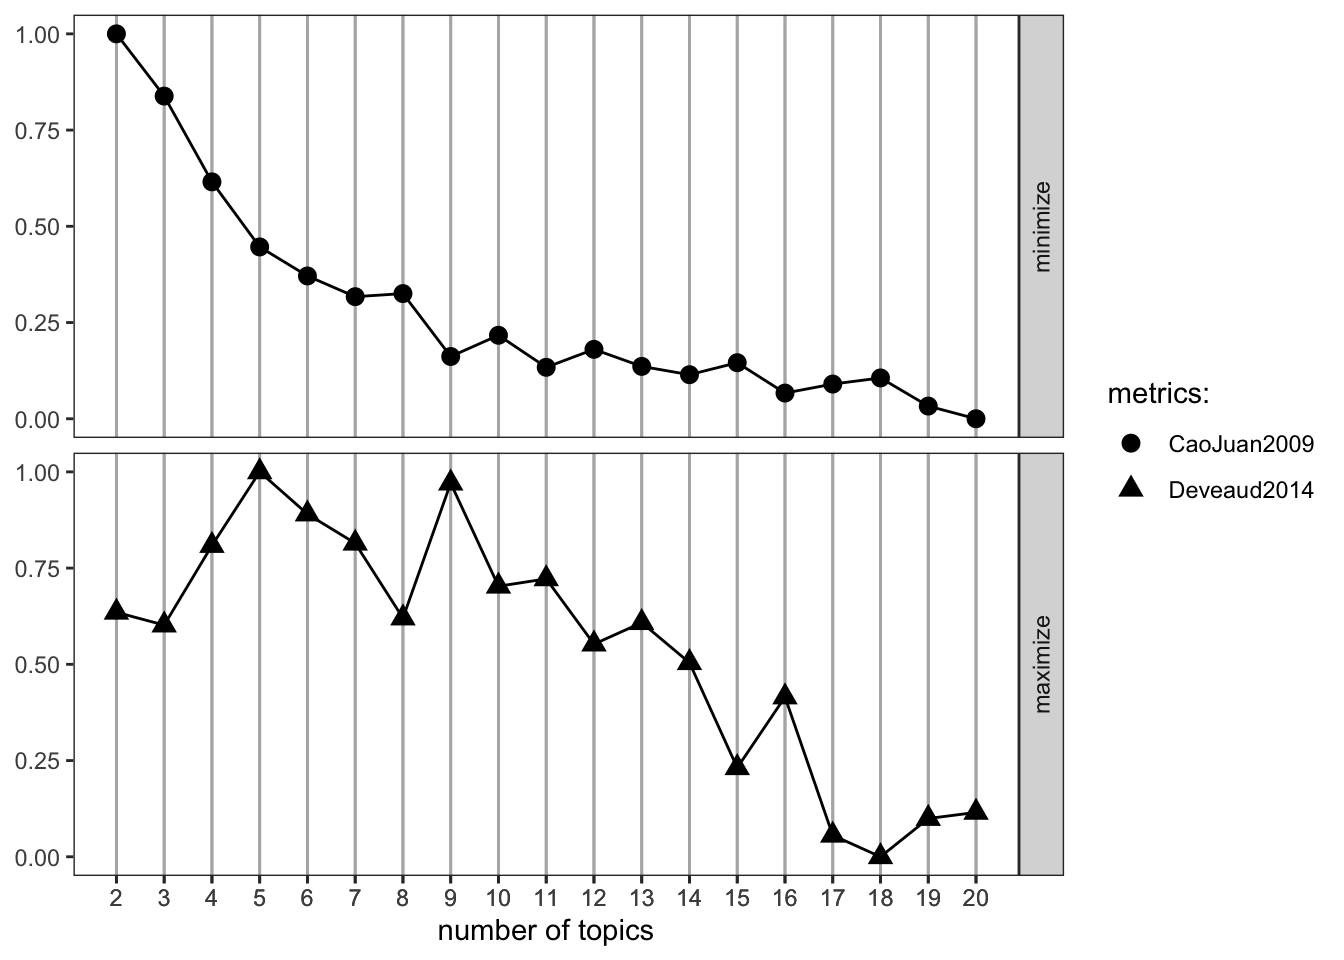
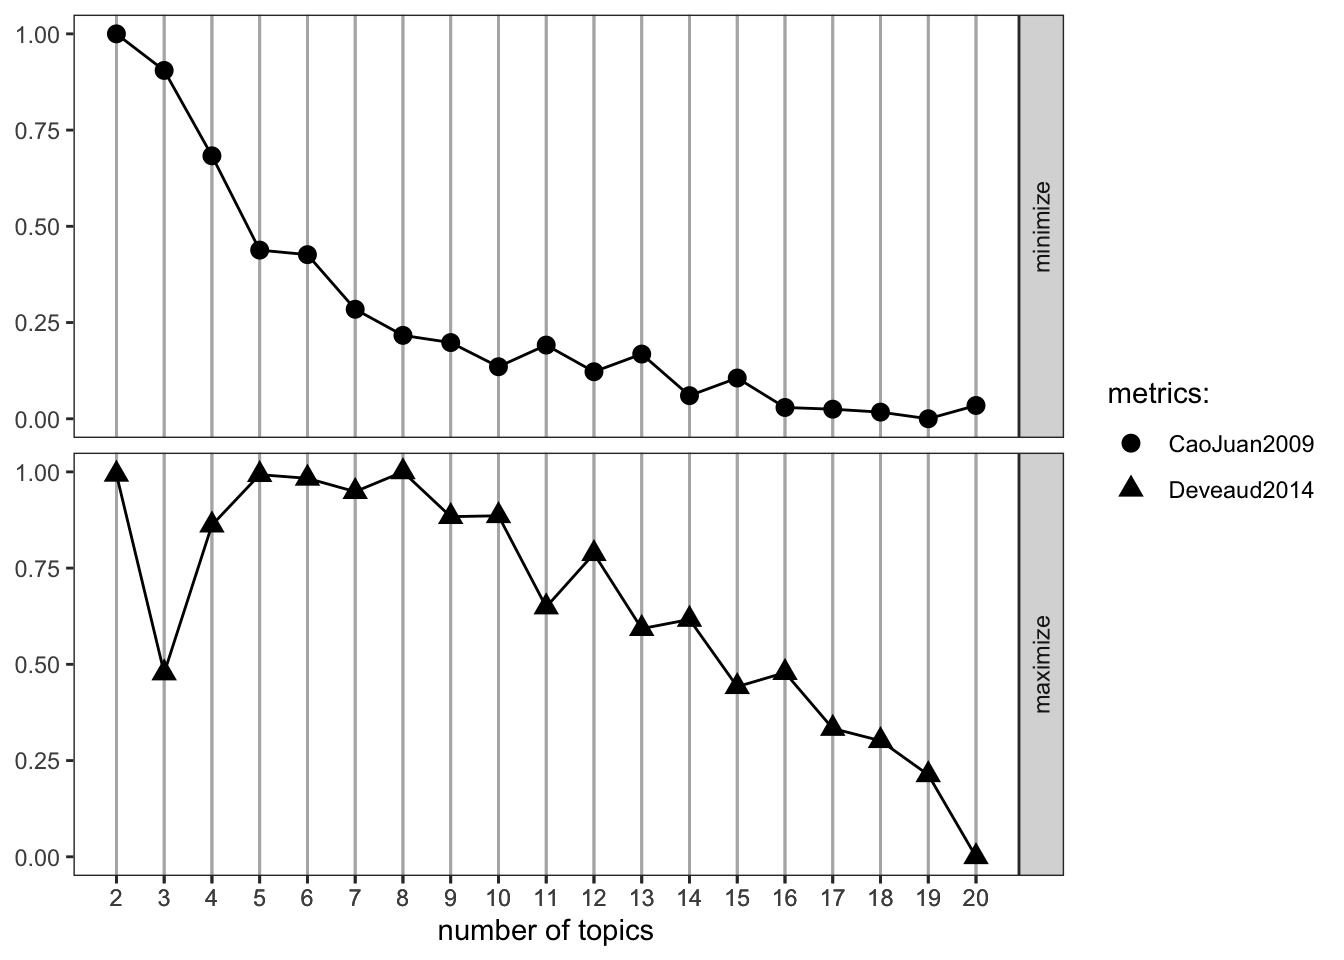
published topics blog

diff --git a/docs/blog/2024-2-28-data-viz-proj/index.html b/docs/blog/2024-2-28-data-viz-proj/index.html
@@ -615,8 +615,8 @@ pre > code.sourceCode > span > a:first-child::before { text-decoration: underlin
 <span id="cb6-25"><a href="#cb6-25" aria-hidden="true" tabindex="-1"></a>                              <span class="st">"#F9CE84"</span>, <span class="st">"#8F0B19"</span>))</span></code><button title="Copy to Clipboard" class="code-copy-button"><i class="bi"></i></button></pre></div>
 </details>
 <div class="cell-output-display">
-<div class="plotly html-widget html-fill-item-overflow-hidden html-fill-item" id="htmlwidget-9fb1de4d65947fb5f8e3" style="width:100%;height:464px;"></div>
-<script type="application/json" data-for="htmlwidget-9fb1de4d65947fb5f8e3">{"x":{"visdat":{"5756636b22d3":["function () ","plotlyVisDat"]},"cur_data":"5756636b22d3","attrs":{"5756636b22d3":{"ids":{},"labels":{},"parents":{},"values":{},"branchvalues":"total","textinfo":"label+values","hoverinfo":"label+percent parent+percent root","insidetextorientation":"radial","alpha_stroke":1,"sizes":[10,100],"spans":[1,20],"type":"sunburst"}},"layout":{"margin":{"b":10,"l":60,"t":40,"r":10},"title":"Fantasy Scoring Distribution by Team","sunburstcolorway":["#89AEAA","#020818","#F8DDA2","#9F9F9F","#102450","#99C783","#D93633","#33ABC5","#A1C7E3","#008A79","#F9CE84","#8F0B19"],"hovermode":"closest","showlegend":false},"source":"A","config":{"modeBarButtonsToAdd":["hoverclosest","hovercompare"],"showSendToCloud":false},"data":[{"ids":["Total","Total - Bikini Bottom","Total - Malibu","Total - Winterfell","Total - Cream City","Total - San Diego","Total - Helsinki","Total - Beaverton","Total - Anacortes","Total - Santa Barbara","Total - Scottsdale","Total - Slytherin","Total - Las Vegas"],"labels":["Total","Bikini Bottom","Malibu","Winterfell","Cream City","San Diego","Helsinki","Beaverton","Anacortes","Santa Barbara","Scottsdale","Slytherin","Las Vegas"],"parents":[null,"Total","Total","Total","Total","Total","Total","Total","Total","Total","Total","Total","Total"],"values":[371099,42127,41197,33687,36805,31113,29325,29659,27838,27313,24338,24719,22978],"branchvalues":"total","textinfo":"label+values","hoverinfo":["label+percent parent+percent root","label+percent parent+percent root","label+percent parent+percent root","label+percent parent+percent root","label+percent parent+percent root","label+percent parent+percent root","label+percent parent+percent root","label+percent parent+percent root","label+percent parent+percent root","label+percent parent+percent root","label+percent parent+percent root","label+percent parent+percent root","label+percent parent+percent root"],"insidetextorientation":"radial","type":"sunburst","marker":{"color":"rgba(31,119,180,1)","line":{"color":"rgba(255,255,255,1)"}},"frame":null}],"highlight":{"on":"plotly_click","persistent":false,"dynamic":false,"selectize":false,"opacityDim":0.20000000000000001,"selected":{"opacity":1},"debounce":0},"shinyEvents":["plotly_hover","plotly_click","plotly_selected","plotly_relayout","plotly_brushed","plotly_brushing","plotly_clickannotation","plotly_doubleclick","plotly_deselect","plotly_afterplot","plotly_sunburstclick"],"base_url":"https://plot.ly"},"evals":[],"jsHooks":[]}</script>
+<div class="plotly html-widget html-fill-item-overflow-hidden html-fill-item" id="htmlwidget-c8af7e78899a6164ce79" style="width:100%;height:464px;"></div>
+<script type="application/json" data-for="htmlwidget-c8af7e78899a6164ce79">{"x":{"visdat":{"5b8377bda124":["function () ","plotlyVisDat"]},"cur_data":"5b8377bda124","attrs":{"5b8377bda124":{"ids":{},"labels":{},"parents":{},"values":{},"branchvalues":"total","textinfo":"label+values","hoverinfo":"label+percent parent+percent root","insidetextorientation":"radial","alpha_stroke":1,"sizes":[10,100],"spans":[1,20],"type":"sunburst"}},"layout":{"margin":{"b":10,"l":60,"t":40,"r":10},"title":"Fantasy Scoring Distribution by Team","sunburstcolorway":["#89AEAA","#020818","#F8DDA2","#9F9F9F","#102450","#99C783","#D93633","#33ABC5","#A1C7E3","#008A79","#F9CE84","#8F0B19"],"hovermode":"closest","showlegend":false},"source":"A","config":{"modeBarButtonsToAdd":["hoverclosest","hovercompare"],"showSendToCloud":false},"data":[{"ids":["Total","Total - Bikini Bottom","Total - Malibu","Total - Winterfell","Total - Cream City","Total - San Diego","Total - Helsinki","Total - Beaverton","Total - Anacortes","Total - Santa Barbara","Total - Scottsdale","Total - Slytherin","Total - Las Vegas"],"labels":["Total","Bikini Bottom","Malibu","Winterfell","Cream City","San Diego","Helsinki","Beaverton","Anacortes","Santa Barbara","Scottsdale","Slytherin","Las Vegas"],"parents":[null,"Total","Total","Total","Total","Total","Total","Total","Total","Total","Total","Total","Total"],"values":[371099,42127,41197,33687,36805,31113,29325,29659,27838,27313,24338,24719,22978],"branchvalues":"total","textinfo":"label+values","hoverinfo":["label+percent parent+percent root","label+percent parent+percent root","label+percent parent+percent root","label+percent parent+percent root","label+percent parent+percent root","label+percent parent+percent root","label+percent parent+percent root","label+percent parent+percent root","label+percent parent+percent root","label+percent parent+percent root","label+percent parent+percent root","label+percent parent+percent root","label+percent parent+percent root"],"insidetextorientation":"radial","type":"sunburst","marker":{"color":"rgba(31,119,180,1)","line":{"color":"rgba(255,255,255,1)"}},"frame":null}],"highlight":{"on":"plotly_click","persistent":false,"dynamic":false,"selectize":false,"opacityDim":0.20000000000000001,"selected":{"opacity":1},"debounce":0},"shinyEvents":["plotly_hover","plotly_click","plotly_selected","plotly_relayout","plotly_brushed","plotly_brushing","plotly_clickannotation","plotly_doubleclick","plotly_deselect","plotly_afterplot","plotly_sunburstclick"],"base_url":"https://plot.ly"},"evals":[],"jsHooks":[]}</script>
 </div>
 </div>
 <p>This plot breaks down the total fantasy scoring across the entire season by team. Let’s go one step further and break each team down by age group: under 25, 25-29, and over 30. This will provide more context on the construction of each fantasy team</p>
@@ -661,8 +661,8 @@ pre > code.sourceCode > span > a:first-child::before { text-decoration: underlin
 <span id="cb7-36"><a href="#cb7-36" aria-hidden="true" tabindex="-1"></a>                              <span class="st">"#F9CE84"</span>, <span class="st">"#8F0B19"</span>))  <span class="co"># Starts with BB c-clockwise</span></span></code><button title="Copy to Clipboard" class="code-copy-button"><i class="bi"></i></button></pre></div>
 </details>
 <div class="cell-output-display">
-<div class="plotly html-widget html-fill-item-overflow-hidden html-fill-item" id="htmlwidget-a3080c9464e04c3ab5b5" style="width:100%;height:464px;"></div>
-<script type="application/json" data-for="htmlwidget-a3080c9464e04c3ab5b5">{"x":{"visdat":{"575637355fe3":["function () ","plotlyVisDat"]},"cur_data":"575637355fe3","attrs":{"575637355fe3":{"ids":{},"labels":{},"parents":{},"values":{},"branchvalues":"total","textinfo":"label","hoverinfo":"label+value+percent parent+percent root","insidetextorientation":"radial","alpha_stroke":1,"sizes":[10,100],"spans":[1,20],"type":"sunburst"}},"layout":{"margin":{"b":10,"l":60,"t":40,"r":10},"title":"Fantasy Scoring Distribution by Team and Age Group","sunburstcolorway":["#89AEAA","#020818","#F8DDA2","#9F9F9F","#102450","#99C783","#D93633","#33ABC5","#A1C7E3","#008A79","#F9CE84","#8F0B19"],"hovermode":"closest","showlegend":false},"source":"A","config":{"modeBarButtonsToAdd":["hoverclosest","hovercompare"],"showSendToCloud":false},"data":[{"ids":["Total","Total - Bikini Bottom","Total - Malibu","Total - Winterfell","Total - Cream City","Total - San Diego","Total - Helsinki","Total - Beaverton","Total - Anacortes","Total - Santa Barbara","Total - Scottsdale","Total - Slytherin","Total - Las Vegas","Total - Bikini Bottom - 25-29","Total - Bikini Bottom - Over 30","Total - Bikini Bottom - Under 25","Total - Malibu - 25-29","Total - Malibu - Over 30","Total - Malibu - Under 25","Total - Winterfell - 25-29","Total - Winterfell - Over 30","Total - Winterfell - Under 25","Total - Cream City - 25-29","Total - Cream City - Over 30","Total - Cream City - Under 25","Total - San Diego - 25-29","Total - San Diego - Over 30","Total - San Diego - Under 25","Total - Helsinki - 25-29","Total - Helsinki - Over 30","Total - Helsinki - Under 25","Total - Beaverton - 25-29","Total - Beaverton - Over 30","Total - Beaverton - Under 25","Total - Anacortes - 25-29","Total - Anacortes - Over 30","Total - Anacortes - Under 25","Total - Santa Barbara - 25-29","Total - Santa Barbara - Over 30","Total - Santa Barbara - Under 25","Total - Scottsdale - 25-29","Total - Scottsdale - Over 30","Total - Scottsdale - Under 25","Total - Slytherin - 25-29","Total - Slytherin - Under 25","Total - Las Vegas - 25-29","Total - Las Vegas - Under 25"],"labels":["Total","Bikini Bottom","Malibu","Winterfell","Cream City","San Diego","Helsinki","Beaverton","Anacortes","Santa Barbara","Scottsdale","Slytherin","Las Vegas","25-29","Over 30","Under 25","25-29","Over 30","Under 25","25-29","Over 30","Under 25","25-29","Over 30","Under 25","25-29","Over 30","Under 25","25-29","Over 30","Under 25","25-29","Over 30","Under 25","25-29","Over 30","Under 25","25-29","Over 30","Under 25","25-29","Over 30","Under 25","25-29","Under 25","25-29","Under 25"],"parents":[null,"Total","Total","Total","Total","Total","Total","Total","Total","Total","Total","Total","Total","Total - Bikini Bottom","Total - Bikini Bottom","Total - Bikini Bottom","Total - Malibu","Total - Malibu","Total - Malibu","Total - Winterfell","Total - Winterfell","Total - Winterfell","Total - Cream City","Total - Cream City","Total - Cream City","Total - San Diego","Total - San Diego","Total - San Diego","Total - Helsinki","Total - Helsinki","Total - Helsinki","Total - Beaverton","Total - Beaverton","Total - Beaverton","Total - Anacortes","Total - Anacortes","Total - Anacortes","Total - Santa Barbara","Total - Santa Barbara","Total - Santa Barbara","Total - Scottsdale","Total - Scottsdale","Total - Scottsdale","Total - Slytherin","Total - Slytherin","Total - Las Vegas","Total - Las Vegas"],"values":[371099,42127,41197,33687,36805,31113,29325,29659,27838,27313,24338,24719,22978,9664,27999,4464,15396,23854,1947,15956,9454,8277,21912,5956,8937,21488,4171,5454,16359,4159,8807,18539,959,10161,13056,904,13878,8672,4682,13959,5649,898,17791,2088,22631,4382,18596],"branchvalues":"total","textinfo":"label","hoverinfo":["label+value+percent parent+percent root","label+value+percent parent+percent root","label+value+percent parent+percent root","label+value+percent parent+percent root","label+value+percent parent+percent root","label+value+percent parent+percent root","label+value+percent parent+percent root","label+value+percent parent+percent root","label+value+percent parent+percent root","label+value+percent parent+percent root","label+value+percent parent+percent root","label+value+percent parent+percent root","label+value+percent parent+percent root","label+value+percent parent+percent root","label+value+percent parent+percent root","label+value+percent parent+percent root","label+value+percent parent+percent root","label+value+percent parent+percent root","label+value+percent parent+percent root","label+value+percent parent+percent root","label+value+percent parent+percent root","label+value+percent parent+percent root","label+value+percent parent+percent root","label+value+percent parent+percent root","label+value+percent parent+percent root","label+value+percent parent+percent root","label+value+percent parent+percent root","label+value+percent parent+percent root","label+value+percent parent+percent root","label+value+percent parent+percent root","label+value+percent parent+percent root","label+value+percent parent+percent root","label+value+percent parent+percent root","label+value+percent parent+percent root","label+value+percent parent+percent root","label+value+percent parent+percent root","label+value+percent parent+percent root","label+value+percent parent+percent root","label+value+percent parent+percent root","label+value+percent parent+percent root","label+value+percent parent+percent root","label+value+percent parent+percent root","label+value+percent parent+percent root","label+value+percent parent+percent root","label+value+percent parent+percent root","label+value+percent parent+percent root","label+value+percent parent+percent root"],"insidetextorientation":"radial","type":"sunburst","marker":{"color":"rgba(31,119,180,1)","line":{"color":"rgba(255,255,255,1)"}},"frame":null}],"highlight":{"on":"plotly_click","persistent":false,"dynamic":false,"selectize":false,"opacityDim":0.20000000000000001,"selected":{"opacity":1},"debounce":0},"shinyEvents":["plotly_hover","plotly_click","plotly_selected","plotly_relayout","plotly_brushed","plotly_brushing","plotly_clickannotation","plotly_doubleclick","plotly_deselect","plotly_afterplot","plotly_sunburstclick"],"base_url":"https://plot.ly"},"evals":[],"jsHooks":[]}</script>
+<div class="plotly html-widget html-fill-item-overflow-hidden html-fill-item" id="htmlwidget-40f53ebae69ead7376dc" style="width:100%;height:464px;"></div>
+<script type="application/json" data-for="htmlwidget-40f53ebae69ead7376dc">{"x":{"visdat":{"5b8333def735":["function () ","plotlyVisDat"]},"cur_data":"5b8333def735","attrs":{"5b8333def735":{"ids":{},"labels":{},"parents":{},"values":{},"branchvalues":"total","textinfo":"label","hoverinfo":"label+value+percent parent+percent root","insidetextorientation":"radial","alpha_stroke":1,"sizes":[10,100],"spans":[1,20],"type":"sunburst"}},"layout":{"margin":{"b":10,"l":60,"t":40,"r":10},"title":"Fantasy Scoring Distribution by Team and Age Group","sunburstcolorway":["#89AEAA","#020818","#F8DDA2","#9F9F9F","#102450","#99C783","#D93633","#33ABC5","#A1C7E3","#008A79","#F9CE84","#8F0B19"],"hovermode":"closest","showlegend":false},"source":"A","config":{"modeBarButtonsToAdd":["hoverclosest","hovercompare"],"showSendToCloud":false},"data":[{"ids":["Total","Total - Bikini Bottom","Total - Malibu","Total - Winterfell","Total - Cream City","Total - San Diego","Total - Helsinki","Total - Beaverton","Total - Anacortes","Total - Santa Barbara","Total - Scottsdale","Total - Slytherin","Total - Las Vegas","Total - Bikini Bottom - 25-29","Total - Bikini Bottom - Over 30","Total - Bikini Bottom - Under 25","Total - Malibu - 25-29","Total - Malibu - Over 30","Total - Malibu - Under 25","Total - Winterfell - 25-29","Total - Winterfell - Over 30","Total - Winterfell - Under 25","Total - Cream City - 25-29","Total - Cream City - Over 30","Total - Cream City - Under 25","Total - San Diego - 25-29","Total - San Diego - Over 30","Total - San Diego - Under 25","Total - Helsinki - 25-29","Total - Helsinki - Over 30","Total - Helsinki - Under 25","Total - Beaverton - 25-29","Total - Beaverton - Over 30","Total - Beaverton - Under 25","Total - Anacortes - 25-29","Total - Anacortes - Over 30","Total - Anacortes - Under 25","Total - Santa Barbara - 25-29","Total - Santa Barbara - Over 30","Total - Santa Barbara - Under 25","Total - Scottsdale - 25-29","Total - Scottsdale - Over 30","Total - Scottsdale - Under 25","Total - Slytherin - 25-29","Total - Slytherin - Under 25","Total - Las Vegas - 25-29","Total - Las Vegas - Under 25"],"labels":["Total","Bikini Bottom","Malibu","Winterfell","Cream City","San Diego","Helsinki","Beaverton","Anacortes","Santa Barbara","Scottsdale","Slytherin","Las Vegas","25-29","Over 30","Under 25","25-29","Over 30","Under 25","25-29","Over 30","Under 25","25-29","Over 30","Under 25","25-29","Over 30","Under 25","25-29","Over 30","Under 25","25-29","Over 30","Under 25","25-29","Over 30","Under 25","25-29","Over 30","Under 25","25-29","Over 30","Under 25","25-29","Under 25","25-29","Under 25"],"parents":[null,"Total","Total","Total","Total","Total","Total","Total","Total","Total","Total","Total","Total","Total - Bikini Bottom","Total - Bikini Bottom","Total - Bikini Bottom","Total - Malibu","Total - Malibu","Total - Malibu","Total - Winterfell","Total - Winterfell","Total - Winterfell","Total - Cream City","Total - Cream City","Total - Cream City","Total - San Diego","Total - San Diego","Total - San Diego","Total - Helsinki","Total - Helsinki","Total - Helsinki","Total - Beaverton","Total - Beaverton","Total - Beaverton","Total - Anacortes","Total - Anacortes","Total - Anacortes","Total - Santa Barbara","Total - Santa Barbara","Total - Santa Barbara","Total - Scottsdale","Total - Scottsdale","Total - Scottsdale","Total - Slytherin","Total - Slytherin","Total - Las Vegas","Total - Las Vegas"],"values":[371099,42127,41197,33687,36805,31113,29325,29659,27838,27313,24338,24719,22978,9664,27999,4464,15396,23854,1947,15956,9454,8277,21912,5956,8937,21488,4171,5454,16359,4159,8807,18539,959,10161,13056,904,13878,8672,4682,13959,5649,898,17791,2088,22631,4382,18596],"branchvalues":"total","textinfo":"label","hoverinfo":["label+value+percent parent+percent root","label+value+percent parent+percent root","label+value+percent parent+percent root","label+value+percent parent+percent root","label+value+percent parent+percent root","label+value+percent parent+percent root","label+value+percent parent+percent root","label+value+percent parent+percent root","label+value+percent parent+percent root","label+value+percent parent+percent root","label+value+percent parent+percent root","label+value+percent parent+percent root","label+value+percent parent+percent root","label+value+percent parent+percent root","label+value+percent parent+percent root","label+value+percent parent+percent root","label+value+percent parent+percent root","label+value+percent parent+percent root","label+value+percent parent+percent root","label+value+percent parent+percent root","label+value+percent parent+percent root","label+value+percent parent+percent root","label+value+percent parent+percent root","label+value+percent parent+percent root","label+value+percent parent+percent root","label+value+percent parent+percent root","label+value+percent parent+percent root","label+value+percent parent+percent root","label+value+percent parent+percent root","label+value+percent parent+percent root","label+value+percent parent+percent root","label+value+percent parent+percent root","label+value+percent parent+percent root","label+value+percent parent+percent root","label+value+percent parent+percent root","label+value+percent parent+percent root","label+value+percent parent+percent root","label+value+percent parent+percent root","label+value+percent parent+percent root","label+value+percent parent+percent root","label+value+percent parent+percent root","label+value+percent parent+percent root","label+value+percent parent+percent root","label+value+percent parent+percent root","label+value+percent parent+percent root","label+value+percent parent+percent root","label+value+percent parent+percent root"],"insidetextorientation":"radial","type":"sunburst","marker":{"color":"rgba(31,119,180,1)","line":{"color":"rgba(255,255,255,1)"}},"frame":null}],"highlight":{"on":"plotly_click","persistent":false,"dynamic":false,"selectize":false,"opacityDim":0.20000000000000001,"selected":{"opacity":1},"debounce":0},"shinyEvents":["plotly_hover","plotly_click","plotly_selected","plotly_relayout","plotly_brushed","plotly_brushing","plotly_clickannotation","plotly_doubleclick","plotly_deselect","plotly_afterplot","plotly_sunburstclick"],"base_url":"https://plot.ly"},"evals":[],"jsHooks":[]}</script>
 </div>
 </div>
 <p>This sunburst plot breaks down the total fantasy scoring in the league, by both team and then age groups within each team. This is the perfect opportunity to utilize a sunburst plot, since it effectively illustrates hierarchical relationships and proportions in a visually compact and intuitive manner. The sunburst plot’s outer ring shows age group contributions to total fantasy points for each team, highlighting the impact of age diversity on each fantasy roster. It distinguishes between teams relying on youth versus experience, efficiently mapping the league’s age and scoring dynamics in a single, clear visual. Text is easily integrated using <code>plotly</code> to reveal the percentage of total fantasy points in each section of the plot. The visualization also uses a custom color scheme to distinguish between teams and age groups.</p>

diff --git a/docs/blog/2024-4-26-topics/index.html b/docs/blog/2024-4-26-topics/index.html
@@ -318,7 +318,7 @@ calculate metrics:
 <p><img src="index_files/figure-html/unnamed-chunk-5-1.png" class="img-fluid" width="672"></p>
 </div>
 </div>
-<p>Based on the results, k = 7 appears to be the optimal number of topics. While one could argue that 5 is also a valid choice if you want to simplify the analysis a bit, 7 improves the CaoJuan2009 metric while also improving the Deveaud2014 metric. They really couldn’t come up with better names for these metrics?!?</p>
+<p>Based on the results when I first ran this model, k = 7 appeared to be the optimal number of topics. Note that the graph is looking different on this outputted blog post, but the topics below are identical. So let’s just pretend like this graph is a placeholder!</p>
 </section>
 <section id="running-the-topic-model" class="level2">
 <h2 class="anchored" data-anchor-id="running-the-topic-model">Running the Topic Model</h2>

diff --git a/docs/blog.html b/docs/blog.html
@@ -188,7 +188,7 @@ Apr 28, 2024
 </div>
 </a>
 </div>
-<div class="g-col-1" data-index="1" data-categories="R,Text Analysis" data-listing-date-sort="1714114800000" data-listing-file-modified-sort="1714455920982" data-listing-date-modified-sort="NaN" data-listing-reading-time-sort="9">
+<div class="g-col-1" data-index="1" data-categories="R,Text Analysis" data-listing-date-sort="1714114800000" data-listing-file-modified-sort="1714456479984" data-listing-date-modified-sort="NaN" data-listing-reading-time-sort="9">
 <a href="./blog/2024-4-26-topics/index.html" class="quarto-grid-link">
 <div class="quarto-grid-item card h-100 card-left">
 <p class="card-img-top"><img src="blog/2024-4-26-topics/index_files/figure-html/unnamed-chunk-5-1.png" style="height: 150px;"  class="thumbnail-image card-img"/></p>

diff --git a/docs/cooking.html b/docs/cooking.html
@@ -370,7 +370,7 @@ window.document.addEventListener("DOMContentLoaded", function (event) {
 });
 </script>
 </div> <!-- /content -->
-<script>var lightboxQuarto = GLightbox({"selector":".lightbox","closeEffect":"fade","loop":false,"openEffect":"fade","descPosition":"right"});</script>
+<script>var lightboxQuarto = GLightbox({"selector":".lightbox","openEffect":"fade","descPosition":"right","loop":false,"closeEffect":"fade"});</script>
 
 
 
